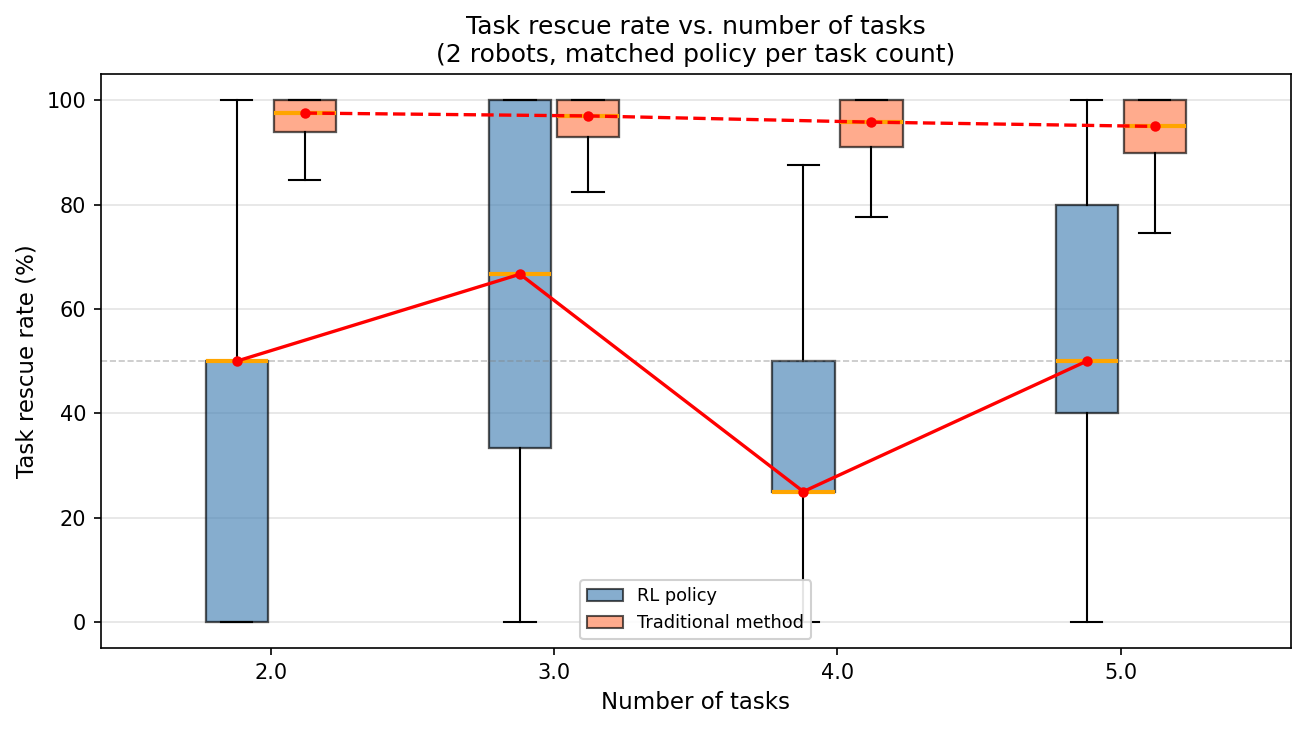
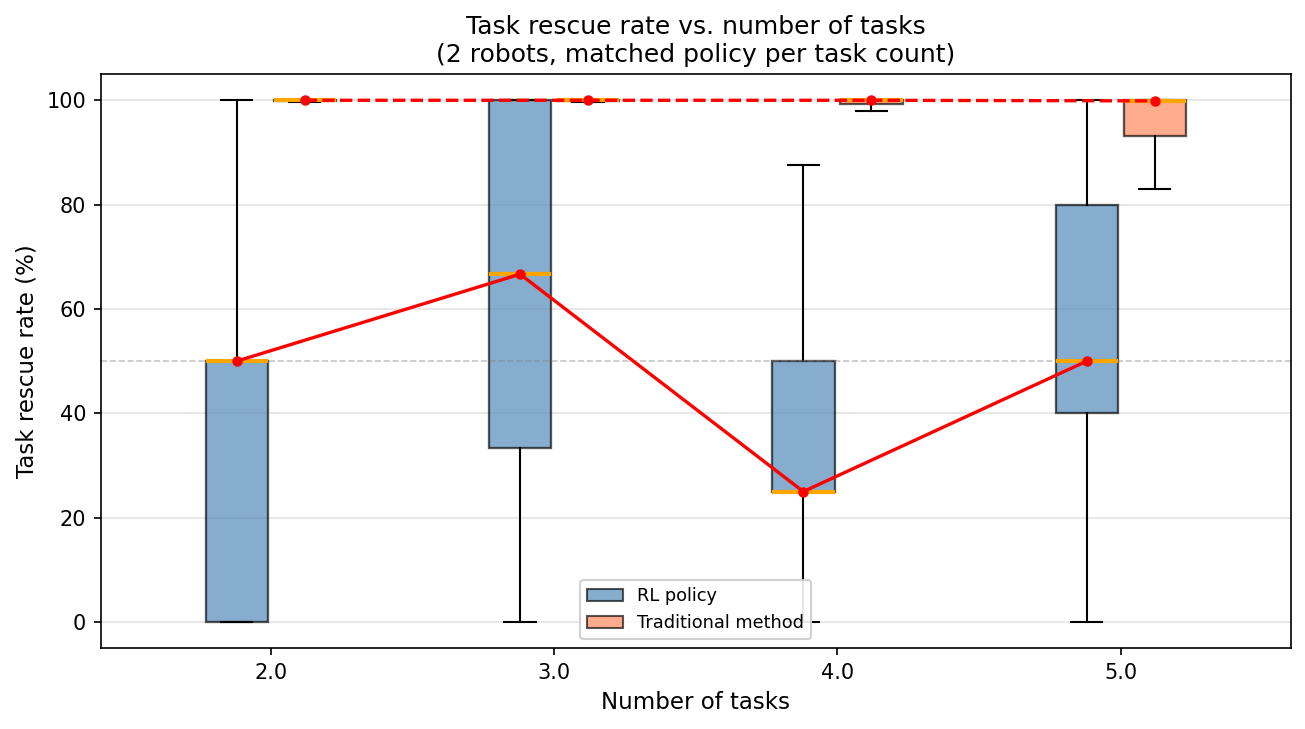
Update the monte_carlo plotting, use raw data for the conventional method

Changed region(s): [[0.1839, 0.1207, 0.9195, 0.2112]]

diff --git a/plot_comparison.py b/plot_comparison.py
@@ -82,28 +82,35 @@ def _read_rl_csv(path):
 def _read_trad_csv(path):
     """Return dict {normalised_key → bxp_stats_dict (values in %)}.
 
-    Traditional CSV has only tasks_rescued_pct, success_rate_mean, num_trials.
-    Box is approximated via Bernoulli std; median = mean (no true median data).
+    Expects a raw per-trial CSV where the last column is the parameter being
+    varied (e.g. hazard_count, pf_value, task_count) and tasks_rescued_pct
+    holds the per-trial rescue percentage.  Proper quartiles are computed
+    directly from the raw data — no approximation needed.
     """
-    rows = {}
+    # Collect per-trial values grouped by the parameter column (last column)
+    groups: dict = {}
     with open(path) as f:
-        for r in csv.DictReader(f):
-            key   = _normalise_key(list(r.values())[0])
-            mean  = float(r["tasks_rescued_pct"])
-            n     = float(r["num_trials"])
-            p     = np.clip(mean / 100.0, 1e-6, 1 - 1e-6)
-            std   = np.sqrt(p * (1 - p) / n) * 100        # Bernoulli approximation
-            q1    = np.clip(mean - 0.674 * std, 0.0, 100.0)
-            q3    = np.clip(mean + 0.674 * std, 0.0, 100.0)
-            iqr   = q3 - q1
-            rows[key] = {
-                "med":    mean,
-                "q1":     q1,
-                "q3":     q3,
-                "whislo": max(0.0,   q1 - 1.5 * iqr),
-                "whishi": min(100.0, q3 + 1.5 * iqr),
-                "fliers": [],
-            }
+        reader = csv.DictReader(f)
+        param_col = reader.fieldnames[-1]          # last column = varied parameter
+        for r in reader:
+            key = _normalise_key(r[param_col])
+            groups.setdefault(key, []).append(float(r["tasks_rescued_pct"]))
+
+    rows = {}
+    for key, vals in groups.items():
+        arr    = np.array(vals, dtype=np.float32)
+        med    = float(np.median(arr))
+        q1     = float(np.percentile(arr, 25))
+        q3     = float(np.percentile(arr, 75))
+        iqr    = q3 - q1
+        rows[key] = {
+            "med":    med,
+            "q1":     q1,
+            "q3":     q3,
+            "whislo": max(0.0,   q1 - 1.5 * iqr),
+            "whishi": min(100.0, q3 + 1.5 * iqr),
+            "fliers": [],
+        }
     return rows
 
 
@@ -242,17 +249,17 @@ def main():
     rl_hazards = _auto(args.rl_hazards, args.rl_hazards,
                        os.path.join(D, "hazards_results.csv"))
     tr_hazards = _auto(args.tr_hazards, args.tr_hazards,
-                       os.path.join(D, "hazard_count_success_summary.csv"))
+                       os.path.join(D, "hazard_count_vs_success_raw.csv"))
 
     rl_spread  = _auto(args.rl_spread, args.rl_spread,
                        os.path.join(D, "spread_results.csv"))
     tr_spread  = _auto(args.tr_spread, args.tr_spread,
-                       os.path.join(D, "pf_success_summary.csv"))
+                       os.path.join(D, "pf_vs_success_raw.csv"))
 
     rl_tasks   = _auto(args.rl_tasks, args.rl_tasks,
                        os.path.join(D, "tasks_results.csv"))
     tr_tasks   = _auto(args.tr_tasks, args.tr_tasks,
-                       os.path.join(D, "task_count_success_summary.csv"))
+                       os.path.join(D, "task_count_vs_success_raw.csv"))
 
     # ── Hazard count comparison ─────────────────────────────────────────────
     if rl_hazards and tr_hazards and os.path.isfile(rl_hazards) and os.path.isfile(tr_hazards):